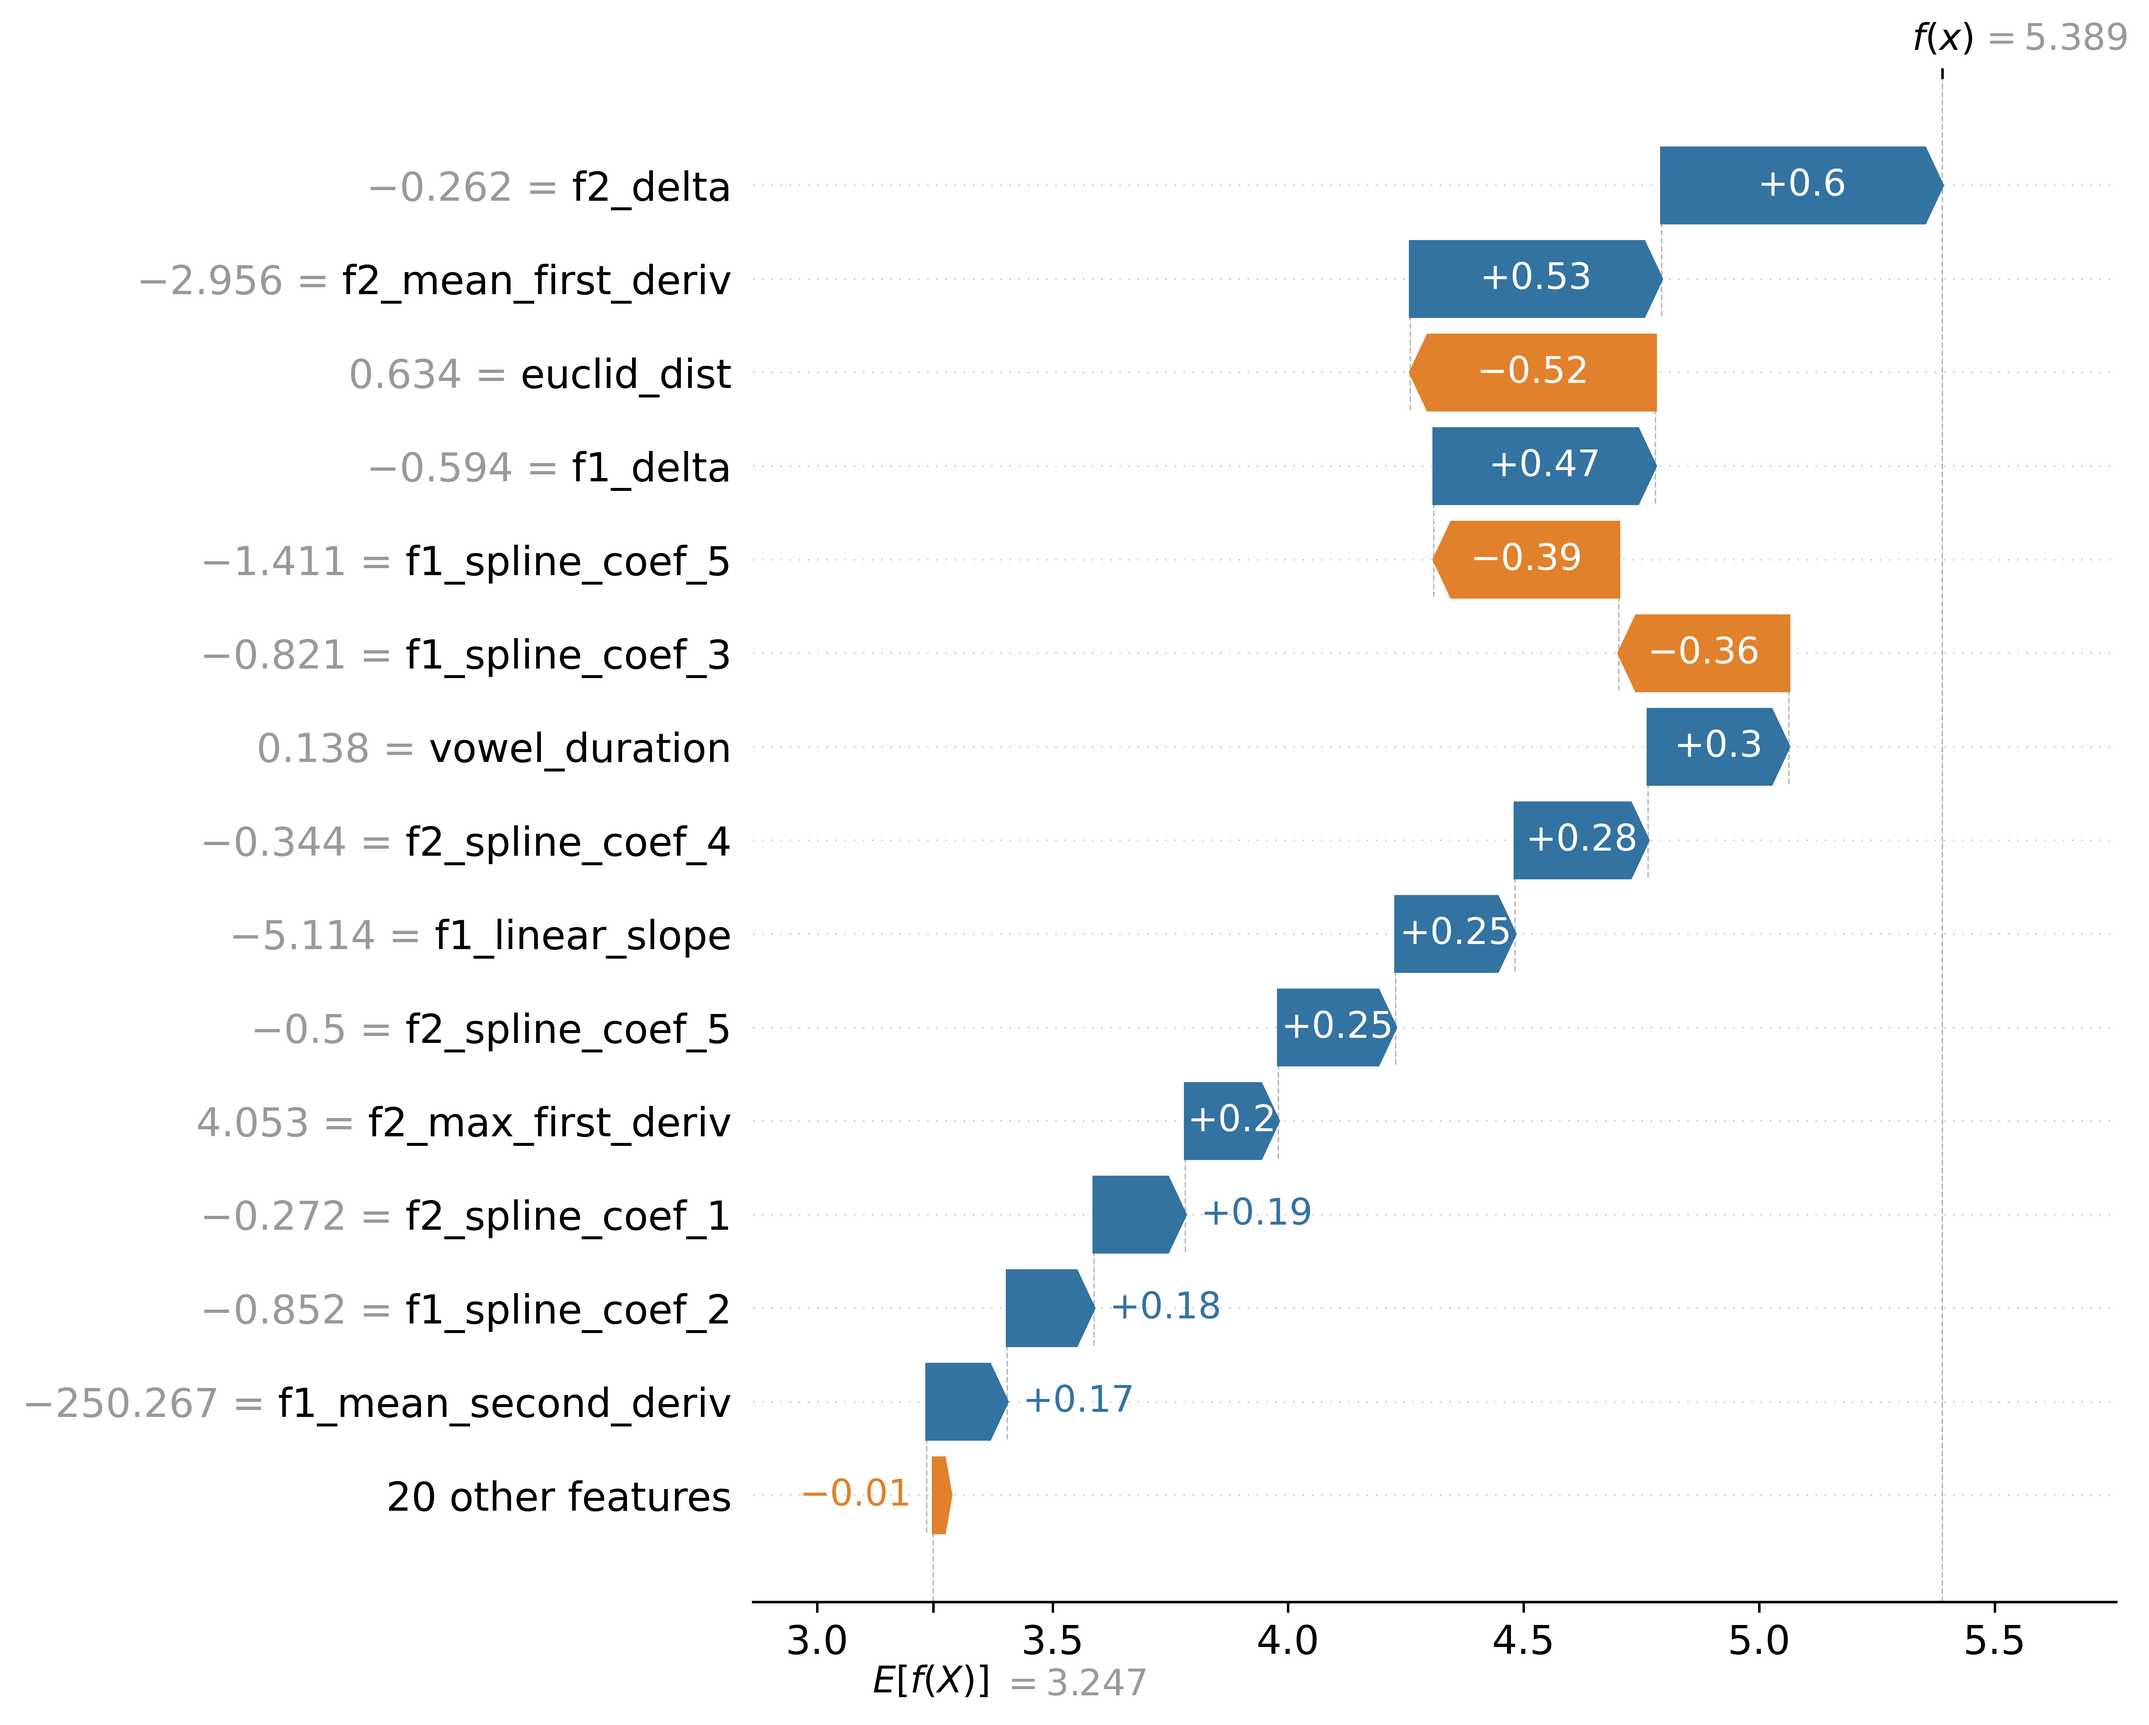
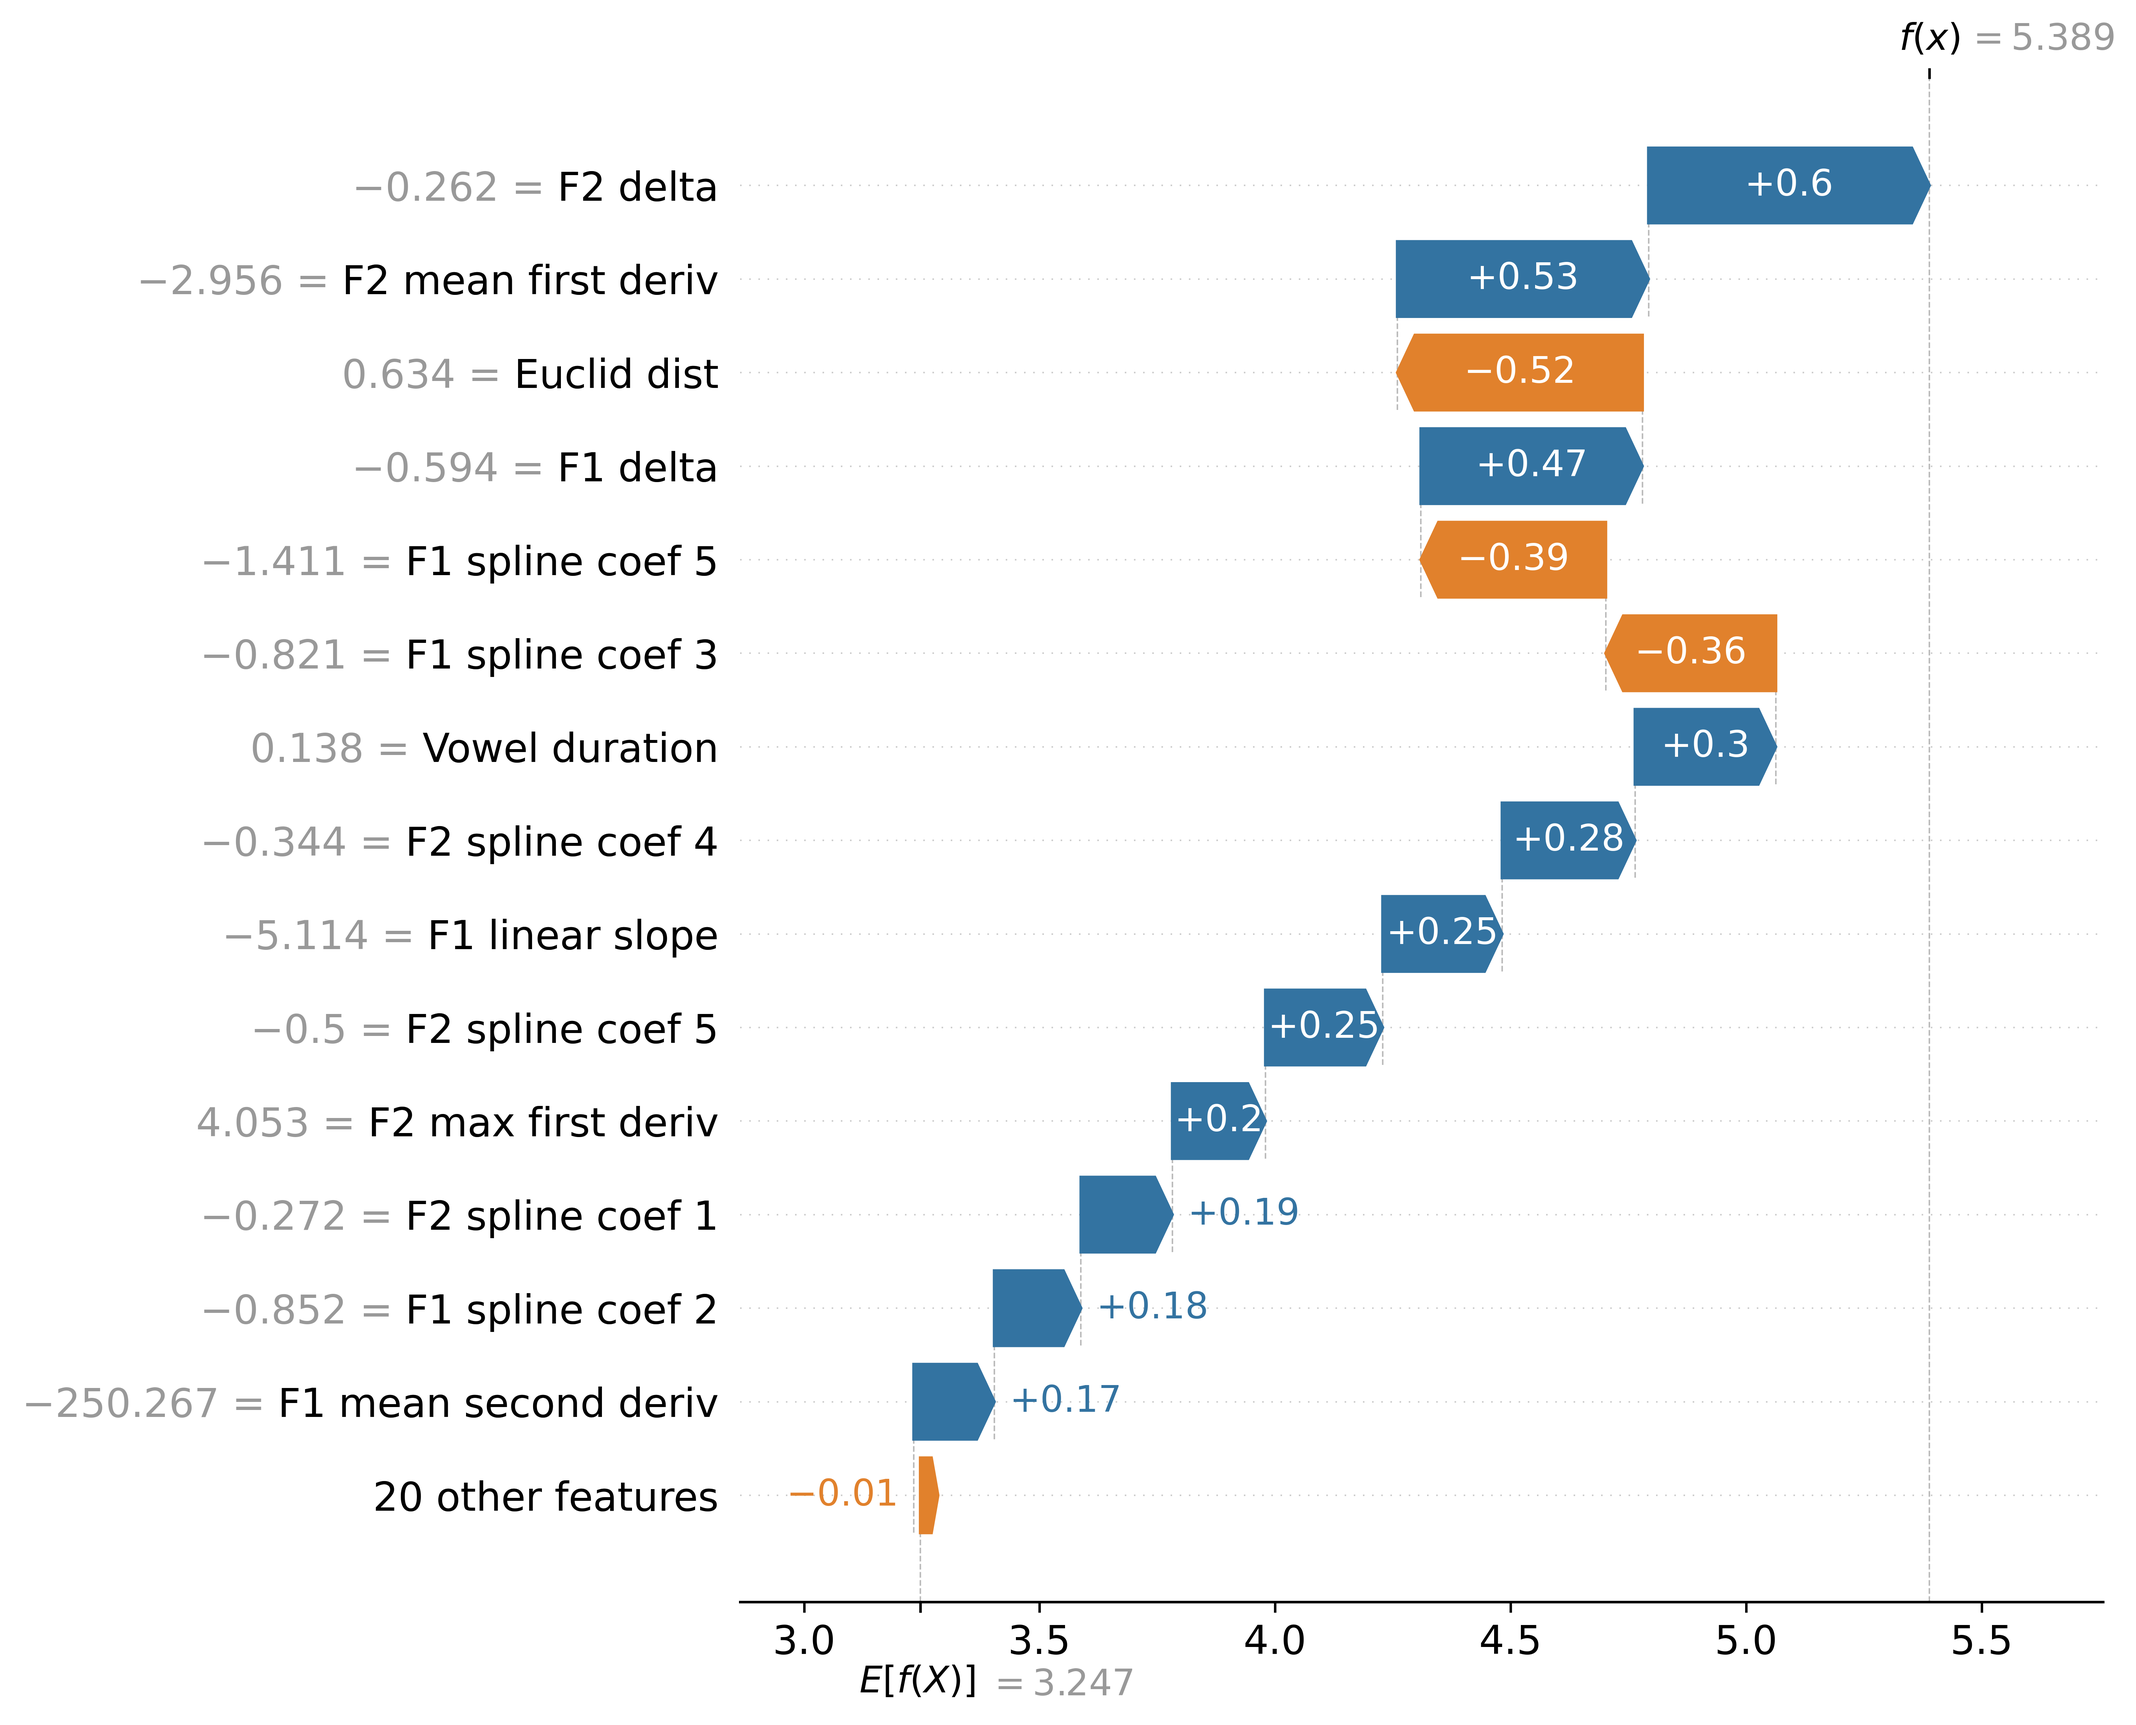
updating shap plot feature labels

diff --git a/src/models/predict_xgb.py b/src/models/predict_xgb.py
@@ -15,7 +15,6 @@ import shap
 import matplotlib.pyplot as plt
 import seaborn as sns
 import matplotlib
-from matplotlib.colors import LinearSegmentedColormap
 
 
 def load_model():
@@ -32,7 +31,7 @@ def load_model():
     return model
 
 
-def evaluate_model(y_test, y_pred):
+def evaluate_model(y_test, y_pred, y_pred_prob):
     """
     compute evaluation metrics for predictions
 
@@ -42,6 +41,8 @@ def evaluate_model(y_test, y_pred):
         true labels
     y_pred: array-like
         predicted labels
+    y_pred_prob: array-like
+        predicted probabilities
 
     returns
     -------
@@ -52,7 +53,7 @@ def evaluate_model(y_test, y_pred):
     precision = precision_score(y_test, y_pred)
     recall = recall_score(y_test, y_pred)
     f1 = f1_score(y_test, y_pred)
-    roc_auc = roc_auc_score(y_test, y_pred)
+    roc_auc = roc_auc_score(y_test, y_pred_prob)
     results = {
         "accuracy": accuracy,
         "precision": precision,
@@ -110,23 +111,44 @@ def shap_plot(model, X_train, train_vowel_ids):
 
     # custom colors
     colors = ["#E1812C", "#3373A1"]
-    custom_cmap = LinearSegmentedColormap.from_list("custom_shap", colors)
     custom_neg_color = colors[0]
     custom_pos_color = colors[1]
     default_pos_color = "#ff0051"
     default_neg_color = "#008bfb"
 
-    explainer = shap.Explainer(model, X_train)
-    shap_values = explainer(X_train)
+    # create a copy of X_train with formatted column names for SHAP plotting
+    if hasattr(X_train, "columns"):
+        formatted_columns = [
+            col.replace("_", " ").capitalize() for col in X_train.columns
+        ]
+        X_train_pretty = X_train.copy()
+        X_train_pretty.columns = formatted_columns
+    else:
+        X_train_pretty = X_train
+
+    explainer = shap.Explainer(model, X_train_pretty)
+    shap_values = explainer(X_train_pretty)
 
     # beeswarm plot with custom colormap
-    shap.summary_plot(shap_values, X_train, max_display=15, show=False, cmap="Blues")
+    shap.summary_plot(
+        shap_values,
+        X_train_pretty,
+        max_display=15,
+        show=False,
+        cmap="Blues",
+    )
     plt.savefig("../../figures/shap_summary_beeswarm.png", dpi=600, bbox_inches="tight")
     plt.close()
 
     # bar plot (all bars in custom blue)
     fig, ax = plt.subplots()
-    shap.summary_plot(shap_values, X_train, plot_type="bar", max_display=15, show=False)
+    shap.summary_plot(
+        shap_values,
+        X_train_pretty,
+        plot_type="bar",
+        max_display=15,
+        show=False,
+    )
 
     # set all bars to custom blue
     custom_blue = "#3373A1"
@@ -155,7 +177,11 @@ def shap_plot(model, X_train, train_vowel_ids):
             print("\nvowel_id {} not found in train_vowel_ids".format(vowel_id))
 
     for vowel in idxs_of_interest_in_X_train:
-        shap.plots.waterfall(shap_values[vowel], max_display=15, show=False)
+        shap.plots.waterfall(
+            shap_values[vowel],
+            max_display=15,
+            show=False,
+        )
         # manually update colors for waterfall plot
         for fc in plt.gcf().get_children():
             for fcc in fc.get_children():
@@ -273,7 +299,7 @@ def main():
     plot_roc_curve(model, X_test, y_test)
 
     # evaluate model
-    results = evaluate_model(y_test, y_pred)
+    results = evaluate_model(y_test, y_pred, y_pred_prob)
     print("\nmodel results:")
     print(results)
 
